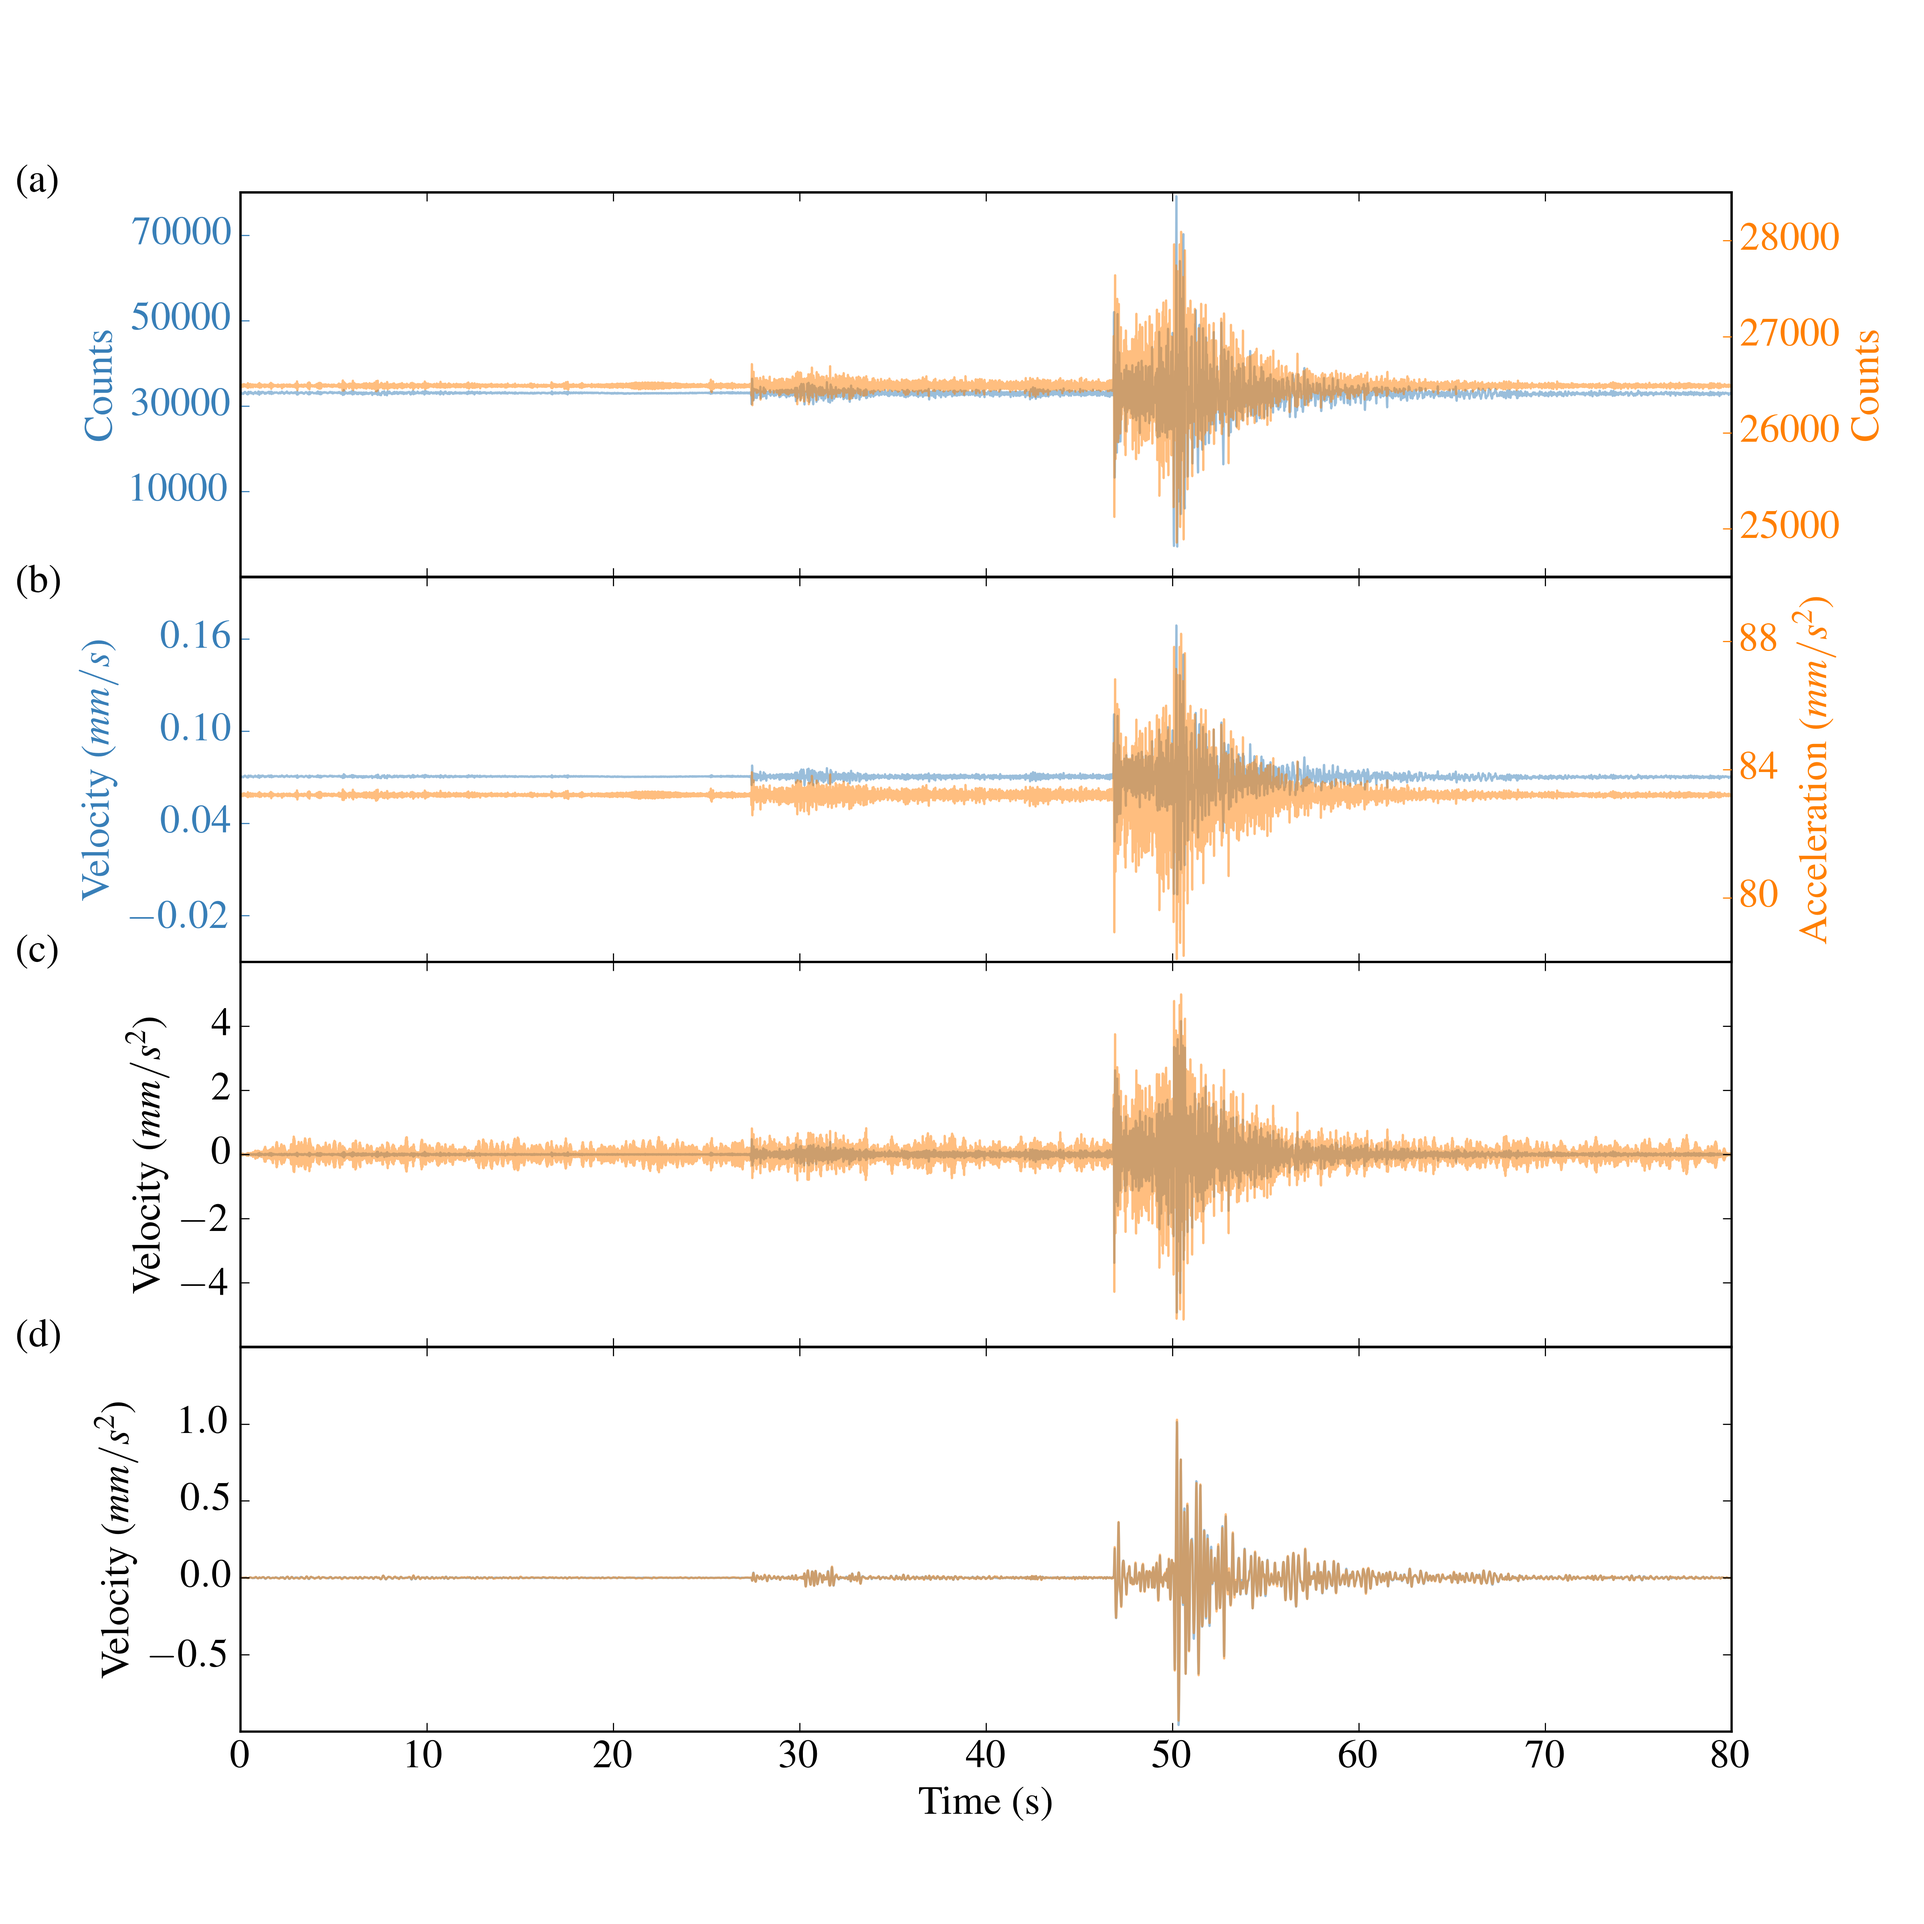
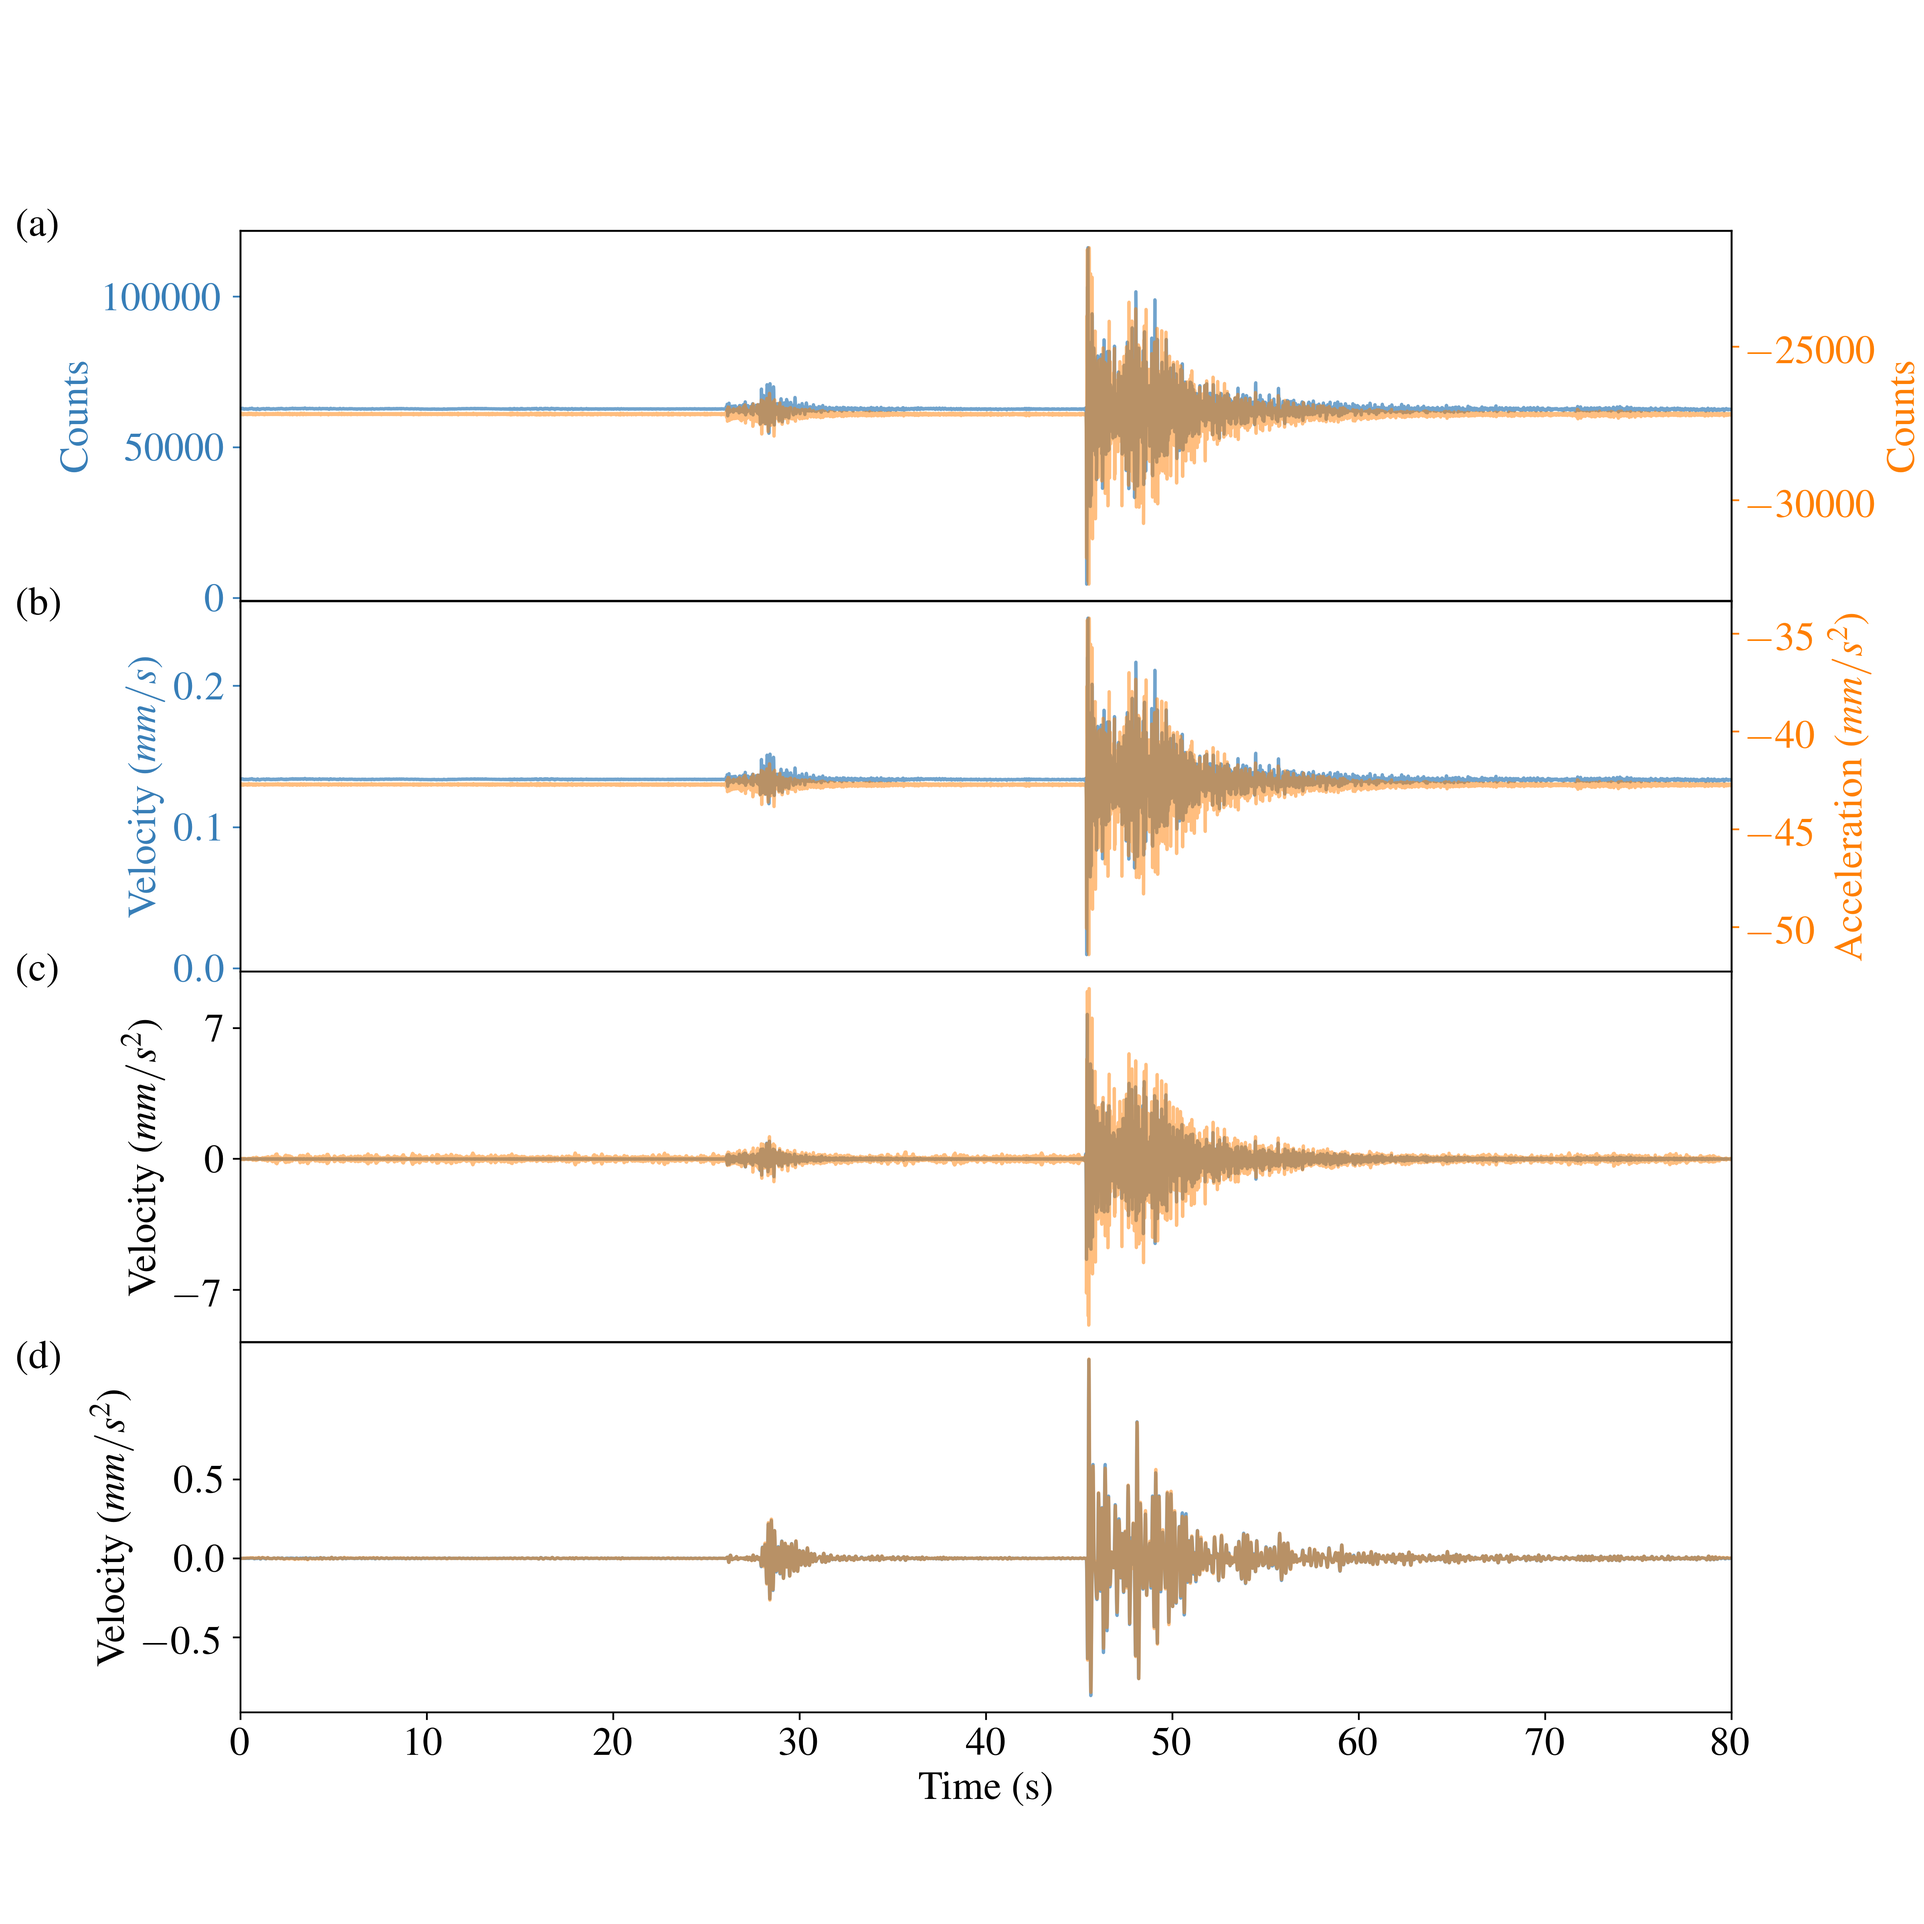
I updated to include figure8 as well as changed the alpha value on figure4.

diff --git a/figure4.py b/figure4.py
@@ -13,7 +13,7 @@ mpl.rc('font',size=18)
 client = Client()
 stime = UTCDateTime('2019-194T02:05:40')
 etime = UTCDateTime('2019-194T02:07:00')
-st = client.get_waveforms("GS", "CA02", "*",
+st = client.get_waveforms("GS", "CA03", "*",
                            "H*Z", stime, etime, attach_response = True)
 
 st.sort()
@@ -23,60 +23,61 @@ plt.subplots_adjust(hspace=0.001)
 # Raw counts
 ax1 = plt.subplot(4,1,1)
 t=st[0].times()
-ax1.plot(t, st[0].data, label=st[0].id, color='#377eb8', alpha=.5)
+ax1.plot(t, st[0].data, label=st[0].id, color='#377eb8', alpha=.7)
 ax1.tick_params(axis='y', colors='#377eb8')
-ax1.text(-12, 80000, '(a)')
+ax1.text(-12, 120000, '(a)')
 ax2 = ax1.twinx()
 t = st[1].times()
 ax2.plot(t, st[1].data, label=st[1].id, color='#ff7f00', alpha=.5)
 ax1.set_xticklabels([])
 ax1.tick_params(axis='y', colors='#377eb8')
-ax1.set_yticks([10000, 30000, 50000, 70000])
+#ax1.set_yticks([10000, 30000, 50000, 70000])
 ax1.set_ylabel('Counts', color='#377eb8')
 ax2.tick_params(axis='y', colors='#ff7f00')
-ax2.set_yticks([25000, 26000, 27000, 28000])
+#ax2.set_yticks([25000, 26000, 27000, 28000])
 ax2.set_ylabel('Counts', color='#ff7f00')
 print(st)
+ax1.set_xlim((0,80))
 # scaled acceleration
 ax1 = plt.subplot(4,1,2)
 t=st[0].times()
 sen = st[0].stats.response.instrument_sensitivity.value
-ax1.plot(t, 1000*st[0].data/sen, label=st[0].id, color='#377eb8', alpha=.5)
+ax1.plot(t, 1000*st[0].data/sen, label=st[0].id, color='#377eb8', alpha=.7)
 ax1.tick_params(axis='y', colors='#377eb8')
-ax1.text(-12, 0.19, '(b)')
+ax1.text(-12, 0.25, '(b)')
 ax2 = ax1.twinx()
 t = st[1].times()
 sen = st[1].stats.response.instrument_sensitivity.value
 ax2.plot(t, 1000*st[1].data/sen, label=st[1].id, color='#ff7f00', alpha=.5)
 ax1.set_xticklabels([])
 ax1.tick_params(axis='y', colors='#377eb8')
-ax1.set_yticks([-0.02, 0.04, 0.1, 0.16])
+#ax1.set_yticks([-0.02, 0.04, 0.1, 0.16])
 ax2.set_ylabel('Acceleration ($mm/s^2$)', color='#ff7f00')
 ax2.tick_params(axis='y', colors='#ff7f00')
-ax2.set_yticks([80, 84, 88])
+#ax2.set_yticks([80, 84, 88])
 ax1.set_ylabel('Velocity ($mm/s$)', color='#377eb8')
-
+ax1.set_xlim((0,80))
 # common units
 st.remove_response(output='ACC')
 ax1 = plt.subplot(4,1,3)
 t=st[0].times()
-ax1.plot(t, st[0].data*1000, label=st[0].id, color='#377eb8', alpha=.5)
-ax1.text(-12, 6, '(c)')
+ax1.plot(t, st[0].data*1000, label=st[0].id, color='#377eb8', alpha=.7)
+ax1.text(-12, 9.5, '(c)')
 t = st[1].times()
 ax1.plot(t,st[1].data*1000, label=st[1].id, color='#ff7f00', alpha=.5)
 ax1.set_xticklabels([])
-ax1.set_yticks([-4, -2, 0, 2, 4])
+ax1.set_yticks([-7, 0, 7])
 ax1.set_ylabel('Velocity ($mm/s^2$)')
-
+ax1.set_xlim((0,80))
 st.filter('bandpass', freqmin=0.1, freqmax=5)
 ax1 = plt.subplot(4,1,4)
 t=st[0].times()
-ax1.plot(t, st[0].data*1000, label=st[0].id, color='#377eb8', alpha=.5)
-ax1.text(-12, 1.5, '(d)')
+ax1.plot(t, st[0].data*1000, label=st[0].id, color='#377eb8', alpha=.7)
+ax1.text(-12, 1.2, '(d)')
 t = st[1].times()
 ax1.plot(t,st[1].data*1000, label=st[1].id, color='#ff7f00', alpha=.5)
-ax1.set_yticks([-0.5, 0., 0.5, 1])
+ax1.set_yticks([-0.5, 0., 0.5])
 ax1.set_ylabel('Velocity ($mm/s^2$)')
 ax1.set_xlabel('Time (s)')
-
+ax1.set_xlim((0,80))
 plt.savefig('Figure4.png', format='PNG', dpi=400)

diff --git a/figure8.py b/figure8.py
@@ -1,0 +1,26 @@
+#!/usr/bin/env python
+
+from obspy.clients.fdsn import Client
+from obspy.core import UTCDateTime
+import matplotlib.pyplot as plt
+
+import matplotlib as mpl
+mpl.rc('font',family='serif')
+mpl.rc('font',serif='Times')
+mpl.rc('text', usetex=True)
+mpl.rc('font',size=24)
+
+client = Client()
+stime = UTCDateTime('2019-194T02:05:40')
+etime = UTCDateTime('2019-194T02:07:00')
+st = client.get_waveforms("GS", "CA02", "*",
+                           "H*Z", stime, etime, attach_response = True)
+
+
+fig = plt.figure(1,figsize=(12,12))
+t=st[0].times()
+plt.plot(t, st[0].data, label=st[0].id, color='#377eb8', alpha=.5, linewidth=3)
+plt.xlabel('Time (s)')
+plt.ylabel('Counts')
+plt.xlim((min(t),max(t)))
+plt.savefig('Figure8.png', format='PNG', dpi=400)
